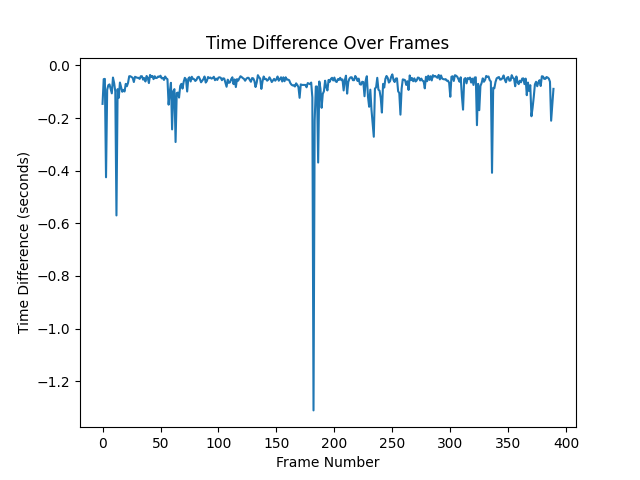
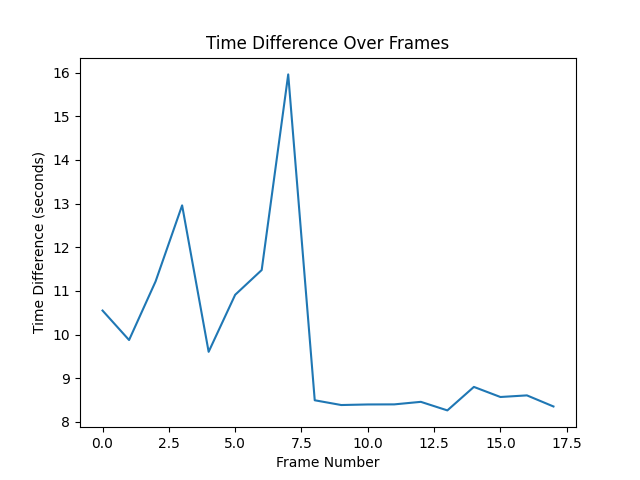
correction in VideoProcessor.py

diff --git a/VideoProcessor.py b/VideoProcessor.py
@@ -24,7 +24,7 @@ class VideoProcessor:
         self.motion_vectors_NNMP = []
         self.motion_vectors_full_search = []
         self.NNMP_times = []
-        self.full_search_time = []
+        self.full_search_times = []
         self.motions = {dir:0 for dir in ['Right', 'Left', 'Up', 'Down', 'Still']}
         self.total_motion = 0
         self.K = np.ones((5, 5), dtype=np.float32) / 25
@@ -80,6 +80,7 @@ class VideoProcessor:
 
     @staticmethod
     def full_search(block, search_area):
+
         best_match = (0, 0)
         min_difference = float('inf')
 
@@ -93,6 +94,20 @@ class VideoProcessor:
                     best_match = (y, x)
 
         return best_match
+
+    @staticmethod
+    def full_searching(G1, G2, M, s):
+        best_match = (0, 0)
+        min_difference = float('inf')
+        motion_vectors_full_search = []
+        for y in range(0, G1.shape[0], M):
+            for x in range(0, G1.shape[1], M):
+                block = G1[y:y + M, x:x + M]
+                search_area = G2[max(0, y - s):min(G2.shape[0], y + M + s), max(0, x - s):min(G2.shape[1], x + M + s)]
+                mv_full_search = VideoProcessor.full_search(block, search_area)
+                motion_vectors_full_search.append(mv_full_search)
+
+        return motion_vectors_full_search
 
     def convolve_frames(self, i):
         Rf1 = convolve2d(self.frames[i], self.K, mode='same')
@@ -118,7 +133,7 @@ class VideoProcessor:
         up_motion = 0
         down_motion = 0
         still_frames = 0
-        for i in range(len(self.frames) - 1):
+        for i in range(len(self.frames)//20 - 1):
             Rf1, Rf2 = self.convolve_frames(i)
             G1, G2 = self.apply_threshold(Rf1, Rf2, i)
 
@@ -126,9 +141,9 @@ class VideoProcessor:
             self.motion_vectors_NNMP.append(mv_NNMP)
             self.NNMP_times.append(NNMP_time)
 
-            mv_full_search, full_search_time = self.time_motion_vector_calculation(self.full_search, G1, G2)
-            self.motion_vectors_full_search.append(mv_full_search)
-            self.full_search_time.append(full_search_time)
+            mv_full_search, full_search_time = self.time_motion_vector_calculation(self.full_searching, G1, G2, 16, 8)
+            self.motion_vectors_full_search += mv_full_search
+            self.full_search_times.append(full_search_time)
 
             # Count the number of frames with motion in each direction
             if mv_NNMP[0] > 0:
@@ -192,7 +207,7 @@ class VideoProcessor:
         for mv_NNMP, mv_full_search in zip(self.motion_vectors_NNMP, self.motion_vectors_full_search):
             mse = mean_squared_error(mv_NNMP, mv_full_search)
             MSE_list.append(mse)
-        time_diff = np.array(self.full_search_time) - np.array(self.NNMP_times)
+        time_diff = np.array(self.full_search_times) - np.array(self.NNMP_times)
         plt.plot(range(len(time_diff)), time_diff)
         plt.title('Time Difference Over Frames')
         plt.xlabel('Frame Number')
@@ -272,4 +287,4 @@ video1.snapshot_first_frame()
 video1.capture_video()
 video1.process_frames()
 video1.plots()
-import valuesUpdateFromJSON.py
+import valuesUpdateFromJSON

diff --git a/README.md b/README.md
@@ -85,7 +85,7 @@ Figure 5: PSNR Comparison
 ![PSNR Comparison](PSNRComparison.png)
 
 PSNR for NNMP: 6.158794261486969
-PSNR for Full Search: 6.240923737173244
+PSNR for Full Search: 6.753711955462182
 
 This figure represents the comparison of PSNR values for both Full Search and NNMP algorithms. The higher the PSNR, the better the quality of the compressed or reconstructed image.
 
